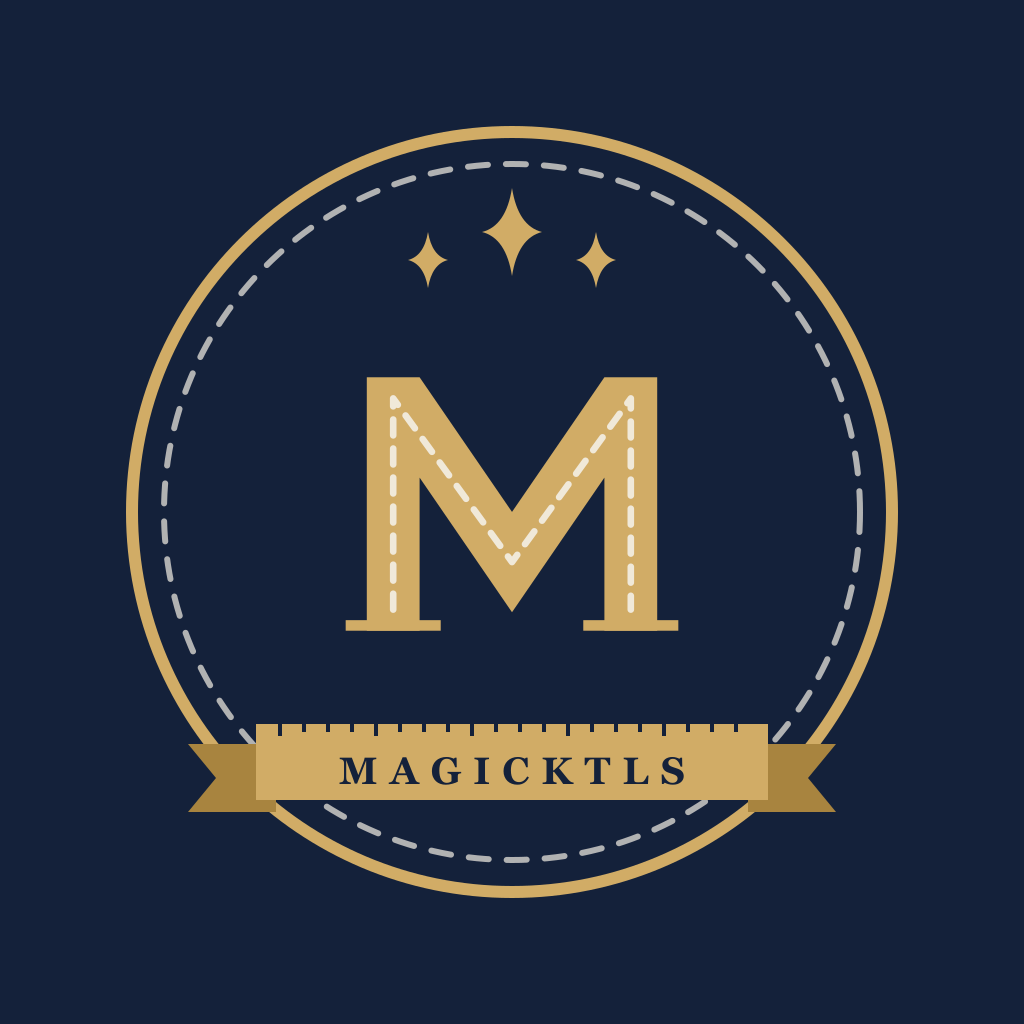
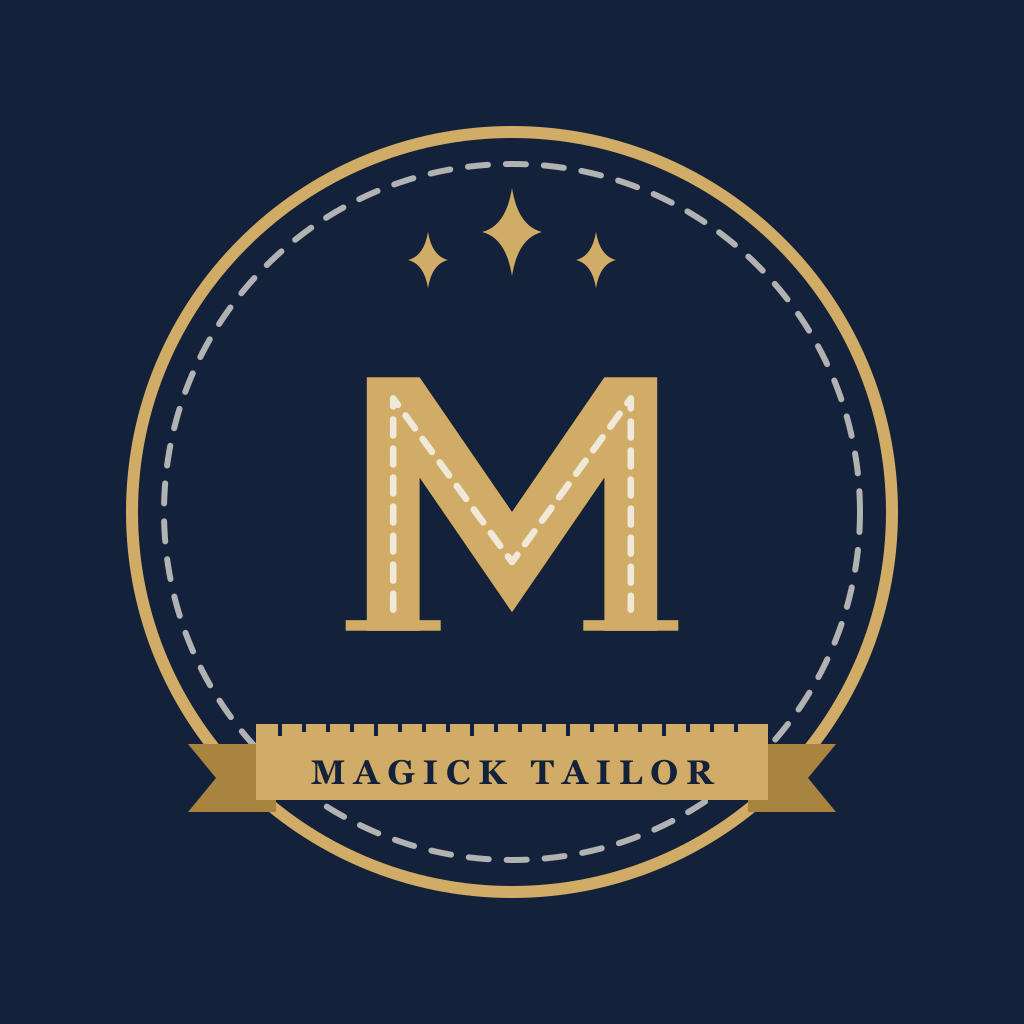
mobile: rename the app to Magick Tailor
Display name, photo permission text, every in-app mention, the email
sender ("<shop> via Magick Tailor"), the hosted privacy and support
pages, the store copy (store name is now just "Magick Tailor") and the
icon banner, regenerated with docs/brand/make-icons.mjs. Bundle id,
Expo slug, worker name, API domain and database names are unchanged.
The privacy pages now also list appointments among the stored data.

Claude-Session: https://claude.ai/code/session_01WZ5oTXb4Q3QgQU3QJCcm9z

Changed region(s): [[0.3125, 0.7188, 0.6875, 0.7812]]

diff --git a/mobile/api/src/routes/public.ts b/mobile/api/src/routes/public.ts
@@ -21,7 +21,7 @@ function page(title: string, body: string): string {
 <head>
 <meta charset="utf-8">
 <meta name="viewport" content="width=device-width, initial-scale=1">
-<title>${title} - Magick TLS</title>
+<title>${title} - Magick Tailor</title>
 <style>
   :root { color-scheme: light dark; }
   body { margin: 0; padding: 32px 16px 64px; font: 16px/1.6 -apple-system, BlinkMacSystemFont, "Segoe UI", Roboto, Helvetica, Arial, sans-serif; background: #fff; color: #1a1a1a; }
@@ -44,9 +44,9 @@ ${body}
 
 const PRIVACY_HTML = `
 <h1>Privacy Policy</h1>
-<p class="meta">Magick TLS - the app for bespoke tailor shops. Provided by General Magick Industries Pte Ltd. Last updated: 8 October 2026.</p>
+<p class="meta">Magick Tailor - the app for bespoke tailor shops. Provided by General Magick Industries Pte Ltd. Last updated: 8 October 2026.</p>
 
-<p>This policy explains, in plain English, what information the Magick TLS app stores, who helps us process it, and how you stay in control of it.</p>
+<p>This policy explains, in plain English, what information the Magick Tailor app stores, who helps us process it, and how you stay in control of it.</p>
 
 <h2>What we store</h2>
 <ul>
@@ -55,6 +55,7 @@ const PRIVACY_HTML = `
   <li><strong>Your clients.</strong> The client details you enter: names, phone numbers, email addresses, LINE IDs, notes and last-order dates.</li>
   <li><strong>Measurements and fittings.</strong> The garment type, all the measurements that garment needs, the style, fabric and posture notes you record for each fitting.</li>
   <li><strong>Orders.</strong> Each order's garment, status, due date, price and deposit.</li>
+  <li><strong>Appointments.</strong> Each fitting, collection or consultation you schedule with a client: the date and time, the order it relates to, your notes and whether a reminder was sent.</li>
   <li><strong>Emails you send.</strong> When you email a client from the app (win-back, order ready, follow-up) we keep a copy on the client's file: the address it went to, the subject, the text, whether it was delivered and the provider's reference.</li>
   <li><strong>AI outputs.</strong> The fit analyses, marketing posts and email drafts generated for you, so you can find them again.</li>
   <li><strong>Posts and media.</strong> The posts in your content library and any photo or video you attach to them.</li>
@@ -82,7 +83,7 @@ const PRIVACY_HTML = `
 <p>You are responsible for making sure you're allowed to record your clients' details and measurements in the app. Please only enter what you need to serve them.</p>
 
 <h2>Deleting your data</h2>
-<p>You can delete your account at any time from inside the app: <strong>Settings &rarr; Delete account</strong>. This permanently erases your shop and its details, all client records, all fittings and measurements, all orders, the copies of emails you sent, all AI outputs, your posts and their photos and videos, and your sign-in account. It cannot be undone. Backups held by our database provider are purged within 30 days.</p>
+<p>You can delete your account at any time from inside the app: <strong>Settings &rarr; Delete account</strong>. This permanently erases your shop and its details, all client records, all fittings and measurements, all orders and appointments, the copies of emails you sent, all AI outputs, your posts and their photos and videos, and your sign-in account. It cannot be undone. Backups held by our database provider are purged within 30 days.</p>
 
 <h2>Security</h2>
 <p>Data is sent over encrypted connections (HTTPS) and stored with providers that encrypt data at rest. Access to the API always requires your signed-in session.</p>
@@ -96,7 +97,7 @@ const PRIVACY_HTML = `
 
 const SUPPORT_HTML = `
 <h1>Support</h1>
-<p class="meta">Magick TLS - the app for bespoke tailor shops. Provided by General Magick Industries Pte Ltd.</p>
+<p class="meta">Magick Tailor - the app for bespoke tailor shops. Provided by General Magick Industries Pte Ltd.</p>
 
 <h2>Get help</h2>
 <p>Email us at <a href="mailto:account@globalmagicko.com">account@globalmagicko.com</a>. We reply within 2 business days.</p>
@@ -110,7 +111,7 @@ const SUPPORT_HTML = `
 <h2>Common questions</h2>
 <p><strong>The AI says I've reached today's limit.</strong> Each account can run up to 30 AI generations per day (fit analysis, posts and win-back emails combined). The limit resets over a rolling 24 hours.</p>
 <p><strong>The AI couldn't produce a result.</strong> This happens occasionally. Wait a moment and try again; if it keeps failing, email us with the time it happened.</p>
-<p><strong>How do I delete my account?</strong> In the app go to <strong>Settings &rarr; Delete account</strong>. This erases your shop, clients, fittings, orders, sent emails, posts, AI outputs and your sign-in account immediately and permanently.</p>
+<p><strong>How do I delete my account?</strong> In the app go to <strong>Settings &rarr; Delete account</strong>. This erases your shop, clients, fittings, orders, appointments, sent emails, posts, AI outputs and your sign-in account immediately and permanently.</p>
 <p><strong>An email to a client shows "Failed".</strong> Check the client's email address on their file and send again. If it still fails, email us with the client's address and the time you sent it.</p>
 <p><strong>Where is my data stored and who can see it?</strong> See our <a href="/privacy">Privacy Policy</a>.</p>
 `;

diff --git a/mobile/app/components/clients/SendEmailFlow.tsx b/mobile/app/components/clients/SendEmailFlow.tsx
@@ -157,7 +157,7 @@ export function NoEmailHint({ client, style }: { client: Client; style?: StylePr
   );
 }
 
-/** `"Shamu via Magick TLS <onboarding@resend.dev>"` → name + address. */
+/** `"Shamu via Magick Tailor <onboarding@resend.dev>"` → name + address. */
 function parseFrom(from: string | undefined): { name: string | null; address: string } | null {
   if (!from) return null;
   const m = /^\s*"?([^"<]*?)"?\s*<([^>]+)>\s*$/.exec(from);
@@ -171,7 +171,7 @@ function parseFrom(from: string | undefined): { name: string | null; address: st
  */
 export function SenderNote({ shop, email, style }: { shop: Shop | null | undefined; email: EmailStatus | null | undefined; style?: StyleProp<ViewStyle> }) {
   const parsed = parseFrom(email?.from);
-  const name = parsed?.name ?? (shop ? `${shop.name} via Magick TLS` : "your shop via Magick TLS");
+  const name = parsed?.name ?? (shop ? `${shop.name} via Magick Tailor` : "your shop via Magick Tailor");
   const address = parsed?.address ?? "onboarding@resend.dev";
   const text =
     email && !email.configured

diff --git a/mobile/app/app/(tabs)/grow/seo.tsx b/mobile/app/app/(tabs)/grow/seo.tsx
@@ -95,7 +95,7 @@ function LocalSeoForm() {
         editable={!mutation.isPending}
       />
       <ChoiceChips label="Competitor tier" hint="Who you're up against for the same searches." options={TIERS} value={tier} onChange={setTier} disabled={mutation.isPending} />
-      <ChoiceChips label="Where are you on Google today?" hint="Your best guess. Magick TLS doesn't check Google for you." options={STATUSES} value={status} onChange={setStatus} disabled={mutation.isPending} />
+      <ChoiceChips label="Where are you on Google today?" hint="Your best guess. Magick Tailor doesn't check Google for you." options={STATUSES} value={status} onChange={setStatus} disabled={mutation.isPending} />
 
       <Card variant="soft" style={styles.infoCard}>
         <View style={styles.infoRow}>

diff --git a/mobile/api/src/email.ts b/mobile/api/src/email.ts
@@ -12,12 +12,12 @@ const MAX_ERROR_CHARS = 200;
 
 /**
  * The sender shown to clients. RESEND_FROM wins when it already has a display name ("Shop <addr>");
- * a bare address (or no value) gets "<shop> via Magick TLS <addr>".
+ * a bare address (or no value) gets "<shop> via Magick Tailor <addr>".
  */
 export function emailFrom(env: Bindings, shopName: string): string {
   const configured = (env.RESEND_FROM ?? "").trim();
   if (configured.includes("<")) return configured;
-  return `${displayName(`${shopName} via Magick TLS`)} <${configured || DEFAULT_FROM_ADDRESS}>`;
+  return `${displayName(`${shopName} via Magick Tailor`)} <${configured || DEFAULT_FROM_ADDRESS}>`;
 }
 
 /** Part of GET /shop: whether the API can really send (key set) and the sender it would use. */

diff --git a/mobile/app/lib/useAiConsent.ts b/mobile/app/lib/useAiConsent.ts
@@ -11,7 +11,7 @@ import { useSetShop, useShop } from "./useShop";
 export const AI_CONSENT_TITLE = "Use AI with Google Gemini?";
 
 export const AI_CONSENT_MESSAGE =
-  "Magick TLS writes fitting notes, posts and emails with Google Gemini. To do that it sends Google the details " +
+  "Magick Tailor writes fitting notes, posts and emails with Google Gemini. To do that it sends Google the details " +
   "involved: the client's first name, measurements, style, fabric and posture note for a fitting; the client's " +
   "first name, last order and your offer for a win-back email; your shop's name, district, tone and topic for a " +
   "post. Google processes them under the Gemini API terms and does not get your clients' contact details.\n\n" +

diff --git a/mobile/app/app/onboarding.tsx b/mobile/app/app/onboarding.tsx
@@ -71,7 +71,7 @@ export default function OnboardingScreen() {
 
   return (
     <Screen
-      eyebrow={isEdit ? "Settings" : "Welcome to Magick TLS"}
+      eyebrow={isEdit ? "Settings" : "Welcome to Magick Tailor"}
       title={isEdit ? "Edit shop" : "Set up your shop"}
       subtitle={isEdit ? undefined : "A few details so the AI can speak in your voice and target your neighbourhood."}
       back={isEdit}

diff --git a/mobile/shared/types.ts b/mobile/shared/types.ts
@@ -302,7 +302,7 @@ export interface MessageResponse {
 /** Part of GET /shop: whether the API can really send email (RESEND_API_KEY set) and the sender it uses. */
 export interface EmailStatus {
   configured: boolean;
-  from: string; // e.g. "Shamu via Magick TLS <onboarding@resend.dev>"
+  from: string; // e.g. "Shamu via Magick Tailor <onboarding@resend.dev>"
 }
 
 // ---------- AI ----------

diff --git a/mobile/app/app/(auth)/sign-in.tsx b/mobile/app/app/(auth)/sign-in.tsx
@@ -140,7 +140,7 @@ export default function SignInScreen() {
       )}
 
       <View style={styles.footer}>
-        <Text style={typography.bodyMuted}>New to Magick TLS?</Text>
+        <Text style={typography.bodyMuted}>New to Magick Tailor?</Text>
         <Link href="/(auth)/sign-up" asChild>
           <Pressable hitSlop={6}>
             <Text style={styles.link}>Create an account</Text>

diff --git a/mobile/app/app/(tabs)/settings.tsx b/mobile/app/app/(tabs)/settings.tsx
@@ -170,7 +170,7 @@ export default function SettingsScreen() {
         fullWidth
       />
 
-      <Text style={styles.version}>Magick TLS v{version}</Text>
+      <Text style={styles.version}>Magick Tailor v{version}</Text>
     </Screen>
   );
 }

diff --git a/mobile/docs/privacy-policy.md b/mobile/docs/privacy-policy.md
@@ -1,4 +1,4 @@
-# Privacy Policy – Magick TLS
+# Privacy Policy – Magick Tailor
 
 **Effective date:** 8 October 2026
 **Operator:** General Magick Industries Pte Ltd ("we", "us")
@@ -8,7 +8,7 @@ This policy is served at `https://api.magicktls.generalmagickindustries.com/priv
 
 ---
 
-TLS is an app for tailor shops. It stores the shop's client, fitting and order records, sends emails to clients on the shop's behalf, and uses AI to draft cutter notes, marketing copy and re-engagement emails. This policy explains what data the app handles, who processes it and how to delete it.
+Magick Tailor is an app for tailor shops. It stores the shop's client, fitting and order records, sends emails to clients on the shop's behalf, and uses AI to draft cutter notes, marketing copy and re-engagement emails. This policy explains what data the app handles, who processes it and how to delete it.
 
 ## 1. Data we collect
 
@@ -20,6 +20,8 @@ TLS is an app for tailor shops. It stores the shop's client, fitting and order r
 
 **Orders.** Each order you record for a client: garment, status, due date, price and deposit.
 
+**Appointments.** Each fitting, collection or consultation you schedule with a client: date and time, the order it relates to, your notes and whether a reminder email was sent.
+
 **Emails you send.** When you email a client from the app (a win-back offer, an order-ready notice or a follow-up) we keep a copy on the client's file: the address it was sent to, the subject, the text, whether the provider accepted it, and the provider's reference for the message.
 
 **AI outputs.** Text generated for you (cutter notes, fit profiles, marketing hooks, blog posts, captions, email drafts) is stored with the record it belongs to so you can see it again. Posts you write in Content Studio are saved to your content library, together with any photo or short video you attach to them.
@@ -28,7 +30,7 @@ TLS is an app for tailor shops. It stores the shop's client, fitting and order r
 
 ## 2. How we use it
 
-- To run the app: show you your clients, fittings, orders, messages and generated content.
+- To run the app: show you your clients, fittings, orders, appointments, messages and generated content.
 - To send emails to your clients, only when you tap Send on a drafted email.
 - To generate AI text: the relevant fields (for example a fitting's measurements, style, fabric and posture note, or a client's name and last purchase for a win-back email) are sent to Google's Gemini API and the reply is stored for you.
 - To keep the service reliable: rate limiting, abuse prevention and debugging.
@@ -57,15 +59,15 @@ Google processes the inputs of each AI request under the Gemini API terms that a
 
 Your data is kept for as long as your account exists.
 
-**Delete your account in the app:** Settings → Delete account. This permanently erases the shop and its details, every client, fitting and order record, the copies of emails you sent, all AI outputs, your posts and their photos and videos, and your login with Clerk. It cannot be undone. Backups held by our database provider are purged on their normal schedule, within 30 days.
+**Delete your account in the app:** Settings → Delete account. This permanently erases the shop and its details, every client, fitting, order and appointment record, the copies of emails you sent, all AI outputs, your posts and their photos and videos, and your login with Clerk. It cannot be undone. Backups held by our database provider are purged on their normal schedule, within 30 days.
 
-You can also delete individual clients (which deletes their fittings, orders and messages) and individual posts at any time.
+You can also delete individual clients (which deletes their fittings, orders, appointments and messages) and individual posts at any time.
 
 To request deletion or a copy of your data by email, write to account@globalmagicko.com from the address you signed up with. We reply within 2 business days.
 
 ## 5. Your clients' data and Thailand's PDPA
 
-If you run a shop, the client information you enter into TLS belongs to your clients. Under Thailand's Personal Data Protection Act B.E. 2562 (2019) and similar laws elsewhere, **you are the data controller** for that information and we act as your processor. That means you are responsible for:
+If you run a shop, the client information you enter into Magick Tailor belongs to your clients. Under Thailand's Personal Data Protection Act B.E. 2562 (2019) and similar laws elsewhere, **you are the data controller** for that information and we act as your processor. That means you are responsible for:
 
 - telling your clients that you keep their contact details and measurements, and obtaining consent or relying on another lawful basis where the law requires it;
 - entering only what you need for the tailoring relationship;
@@ -80,11 +82,11 @@ Data travels over HTTPS. Sign-in tokens are stored in the device's secure storag
 
 ## 7. Children
 
-TLS is a business tool and is not directed at children. We do not knowingly collect data from anyone under 13 (or the applicable age in your country).
+Magick Tailor is a business tool and is not directed at children. We do not knowingly collect data from anyone under 13 (or the applicable age in your country).
 
 ## 8. International transfers
 
-The processors above operate in several countries, including the United States, Japan, Thailand and Singapore. By using TLS you accept that data is processed where they operate, under their contractual safeguards.
+The processors above operate in several countries, including the United States, Japan, Thailand and Singapore. By using Magick Tailor you accept that data is processed where they operate, under their contractual safeguards.
 
 ## 9. Changes
 

diff --git a/mobile/docs/store-listing.md b/mobile/docs/store-listing.md
@@ -1,4 +1,4 @@
-# Store listing: TLS 1.0
+# Store listing: Magick Tailor 1.0
 
 Copy for App Store Connect and Google Play Console. Character limits are noted; counts were checked with `wc -m` (see the bottom of this file). No statistics or customer claims are made, so nothing needs substantiating.
 
@@ -6,7 +6,7 @@ Copy for App Store Connect and Google Play Console. Character limits are noted; 
 
 | Field | Limit | Value |
 |---|---|---|
-| App name (both stores) | 30 | `Magick TLS – Tailor Growth` |
+| App name (both stores) | 30 | `Magick Tailor` |
 | Subtitle (Apple) | 30 | `AI growth for bespoke tailors` |
 | Short description (Google) | 80 | `Fittings, orders, AI cutter notes and win-back emails for bespoke tailors` |
 | Promotional text (Apple, editable without a new build) | 170 | `Keep every client's measurements and cutter notes in one place, publish content in your shop's own voice, and bring quiet clients back. Built for bespoke tailor shops.` |
@@ -18,12 +18,12 @@ Copy for App Store Connect and Google Play Console. Character limits are noted; 
 | Privacy policy URL | | `https://api.magicktls.generalmagickindustries.com/privacy` |
 | Copyright | | `2026 General Magick Industries Pte Ltd` |
 
-Apple's keyword field should not repeat words from the name or subtitle (they are already indexed), which is why `tailor`, `growth` and `AI` are left out. `SEO` was removed with the Local SEO feature, which is hidden in 1.0.
+Apple's keyword field should not repeat words from the name or subtitle (they are already indexed), which is why `tailor` and `AI` are left out. `SEO` was removed with the Local SEO feature, which is hidden in 1.0.
 
 ## Full description (Apple ≤ 4000, Google ≤ 4000)
 
 ```
-TLS is a working tool for bespoke tailor shops. It keeps your client records, fitting measurements and orders in one place and uses AI to draft the things you would otherwise write yourself: cutter notes, marketing copy and win-back emails.
+Magick Tailor is a working tool for bespoke tailor shops. It keeps your client records, fitting measurements and orders in one place and uses AI to draft the things you would otherwise write yourself: cutter notes, marketing copy and win-back emails.
 
 CLIENTS AND FITTINGS
 Add each client with their phone, email or LINE ID. Record a fitting by hand – pick the garment and enter the measurements it needs, in centimetres – along with the style, the fabric and a posture note such as a low shoulder. Every fitting is saved to the client's file, so a returning client never has to be measured from scratch.
@@ -35,15 +35,15 @@ ORDERS
 Track every order on the client's file: the garment, its status, the due date, the price and the deposit. Overdue orders are flagged, and when a garment is ready you can email the client straight from the order.
 
 CONTENT STUDIO
-Choose a topic, an audience (expatriates, local executives, grooms or tourists) and your brand tone. TLS drafts a blog post, a social caption and a call to action. Everything you write is saved to your content library, where you can attach a photo or a short video, edit it, duplicate it and share it through your phone's share sheet.
+Choose a topic, an audience (expatriates, local executives, grooms or tourists) and your brand tone. Magick Tailor drafts a blog post, a social caption and a call to action. Everything you write is saved to your content library, where you can attach a photo or a short video, edit it, duplicate it and share it through your phone's share sheet.
 
 WIN-BACK
-Clients who have not ordered in 90 days are flagged on the home screen. Pick an incentive and TLS writes a courteous re-engagement email and sends it to the client for you, keeping a copy on their file.
+Clients who have not ordered in 90 days are flagged on the home screen. Pick an incentive and Magick Tailor writes a courteous re-engagement email and sends it to the client for you, keeping a copy on their file.
 
 PRIVATE BY DESIGN
 Your data belongs to your shop. No ads, no selling of data, and you can delete your account and everything in it from Settings at any time.
 
-TLS requires an account: sign in with your email address and a one-time code, no password to remember.
+Magick Tailor requires an account: sign in with your email address and a one-time code, no password to remember.
 ```
 
 ## What's new (1.0)
@@ -90,7 +90,7 @@ Apple only requires the 6.9" set for iPhone; iPad screenshots are not needed bec
 ## Review notes (paste into "Notes" / "App access instructions")
 
 ```
-TLS is a business tool for tailor shops; an account is required to reach any screen.
+Magick Tailor is a business tool for tailor shops; an account is required to reach any screen.
 
 Sign in with:
   Email: reviewer+clerk_test@generalmagickindustries.com
@@ -112,7 +112,7 @@ Privacy policy: https://api.magicktls.generalmagickindustries.com/privacy
 ## Character counts
 
 ```bash
-printf '%s' 'Magick TLS – Tailor Growth' | wc -m                            # 26
+printf '%s' 'Magick Tailor' | wc -m                                         # 13
 printf '%s' 'AI growth for bespoke tailors' | wc -m                          # 29
 printf '%s' 'Fittings, orders, AI cutter notes and win-back emails for bespoke tailors' | wc -m   # 73
 printf '%s' 'bespoke,suit,fitting,measurements,clients,CRM,marketing,orders,Bangkok,atelier,menswear,shirt' | wc -m   # 93

diff --git a/mobile/api/README.md b/mobile/api/README.md
@@ -77,7 +77,7 @@ Create an API key at <https://aistudio.google.com/apikey> (`GEMINI_API_KEY`). Op
 
 Create an API key at <https://resend.com/api-keys> (`RESEND_API_KEY`). Without it the worker still accepts `POST /clients/:id/messages` but logs each message with status `simulated` instead of sending, and `GET /shop` reports `email.configured: false` so the app can say so.
 
-The sender defaults to `<shop name> via Magick TLS <onboarding@resend.dev>`. Resend's shared `onboarding@resend.dev` address only delivers to the email on your own Resend account (fine for demos). To send to real clients, verify your domain in Resend and set `RESEND_FROM` to either a bare address (`hello@yourdomain.com`, shown as `<shop name> via Magick TLS <hello@yourdomain.com>`) or a full sender (`Shop <hello@yourdomain.com>`, used as is). `GET /shop` returns the effective sender as `email.from`.
+The sender defaults to `<shop name> via Magick Tailor <onboarding@resend.dev>`. Resend's shared `onboarding@resend.dev` address only delivers to the email on your own Resend account (fine for demos). To send to real clients, verify your domain in Resend and set `RESEND_FROM` to either a bare address (`hello@yourdomain.com`, shown as `<shop name> via Magick Tailor <hello@yourdomain.com>`) or a full sender (`Shop <hello@yourdomain.com>`, used as is). `GET /shop` returns the effective sender as `email.from`.
 
 **Footer and Reply-To.** Every email goes out with a footer built from the shop's details (`PUT /shop`: `address`, `phone`, `openingHours`, `replyToEmail`, all optional). After a blank line: `— <shop name>`, then the address (if set), then `<phone> · <opening hours>` (whichever are set), then `Reply to this email to reach the shop.` only when `replyToEmail` is set - in which case it is also sent to Resend as `reply_to`, so client replies land in the shop's inbox instead of the sender address. The HTML version carries the same footer as a muted paragraph. The footer is presentation only: `messages.body` stores the text exactly as the app sent it. `buildEmailFooter(shop)` in `src/email.ts` is pure and can be unit-tested.
 
